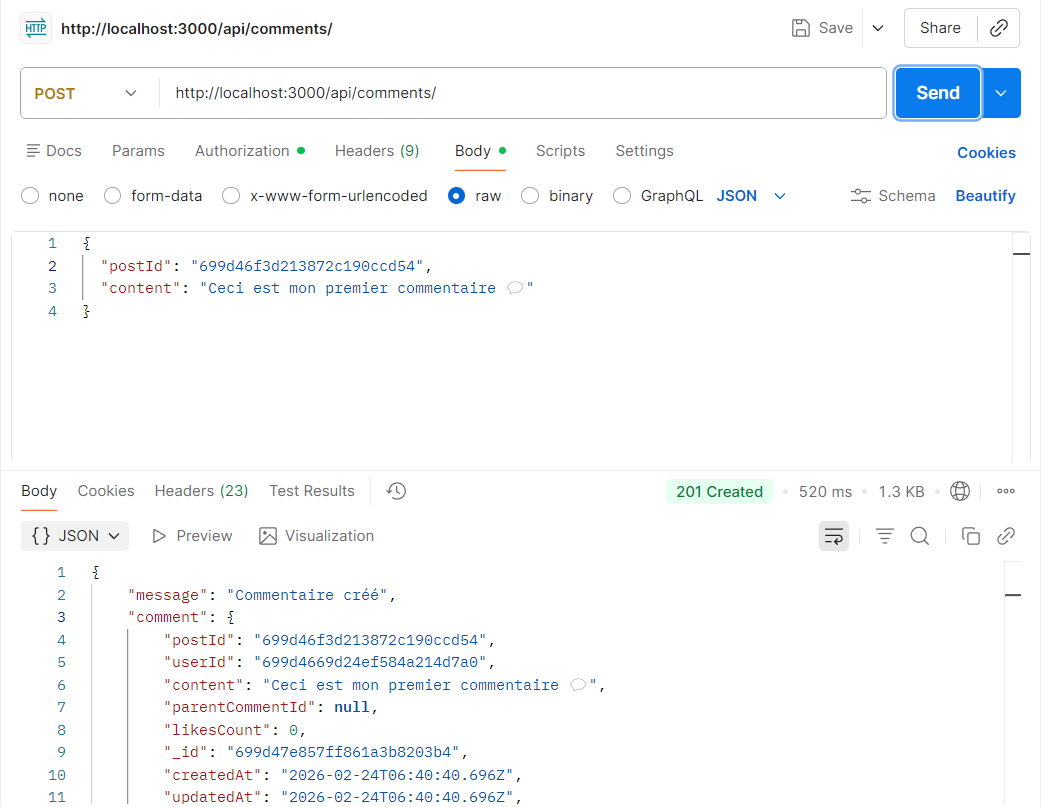
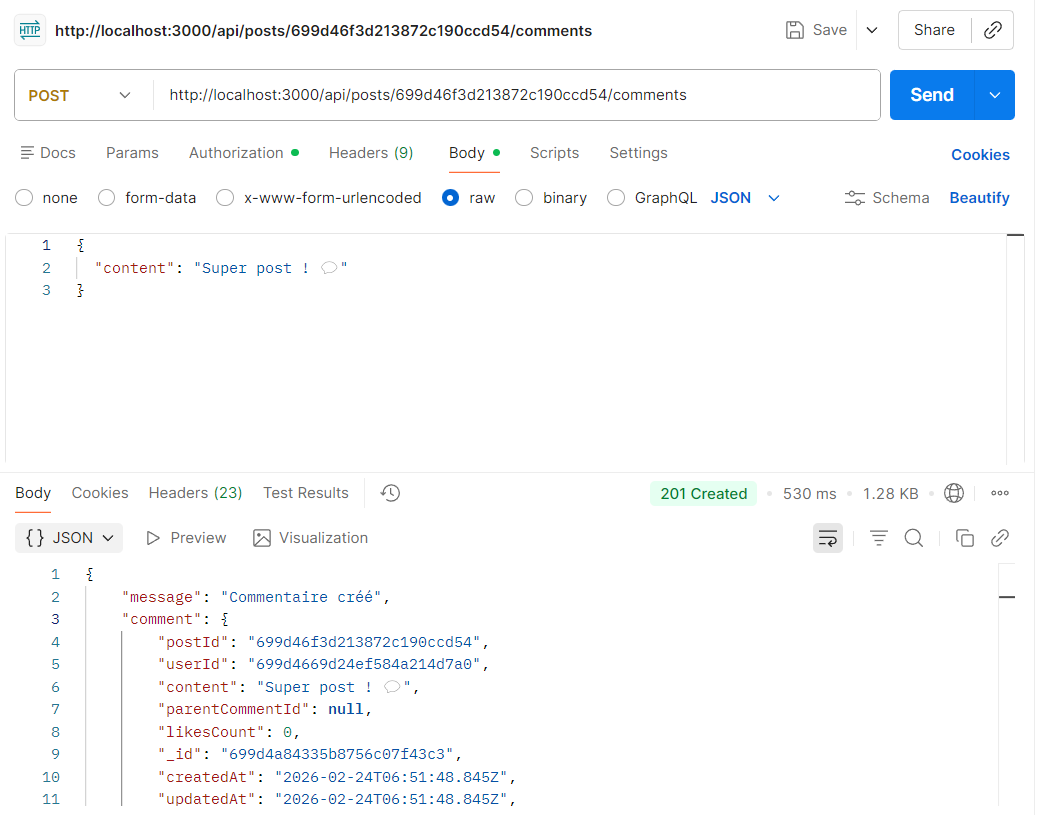
feat: implement comments proxy routing and update comment creation logic

diff --git a/comment-service/routes/comments.js b/comment-service/routes/comments.js
@@ -4,24 +4,25 @@ const Comment = require('../models/Comment');
 const axios = require('axios');
 
 /**
- * ROUTE : POST /api/comments
- * Créer un commentaire
+ * ROUTE : POST /posts/:postId/comments
+ * Créer un commentaire pour un post (RESTful)
  */
-router.post('/', async (req, res) => {
+router.post('/posts/:postId/comments', async (req, res) => {
   try {
-    // Récupérer le userId depuis le header ajouté par le gateway
     const userId = req.headers['x-user-id'];
-    const { postId, content, parentCommentId } = req.body;
+    const postId = req.params.postId;
+    const { content } = req.body;
 
+    // Validation
     if (!userId) {
       return res.status(401).json({
         error: 'Authentification requise'
       });
     }
 
-    if (!postId || !content) {
+    if (!content) {
       return res.status(400).json({
-        error: 'postId et content sont requis'
+        error: 'Le contenu est requis'
       });
     }
 
@@ -29,11 +30,10 @@ router.post('/', async (req, res) => {
     const comment = await Comment.create({
       postId,
       userId,
-      content,
-      parentCommentId: parentCommentId || null
+      content
     });
 
-    // 🔥 Appel au Post Service pour incrémenter le compteur
+    // Appel au Post Service pour incrémenter le compteur
     try {
       await axios.post(
         `http://localhost:${process.env.POST_SERVICE_PORT || 3002}/${postId}/increment-comments`
@@ -46,36 +46,103 @@ router.post('/', async (req, res) => {
       message: 'Commentaire créé',
       comment
     });
-
   } catch (error) {
     console.error('Erreur création commentaire:', error);
     res.status(500).json({ error: error.message });
   }
 });
 
+/**
+ * ROUTE : POST /:postId/comments
+ * Créer un commentaire (via gateway qui a déjà consommé /api/posts)
+ */
+router.post('/:postId/comments', async (req, res) => {
+  try {
+    const userId = req.headers['x-user-id'];
+    const postId = req.params.postId;
+    const { content } = req.body;
+
+    // Validation
+    if (!userId) {
+      return res.status(401).json({
+        error: 'Authentification requise'
+      });
+    }
+
+    if (!content) {
+      return res.status(400).json({
+        error: 'Le contenu est requis'
+      });
+    }
+
+    // Créer le commentaire
+    const comment = await Comment.create({
+      postId,
+      userId,
+      content
+    });
+
+    // Appel au Post Service pour incrémenter le compteur
+    try {
+      await axios.post(
+        `http://localhost:${process.env.POST_SERVICE_PORT || 3002}/${postId}/increment-comments`
+      );
+    } catch (err) {
+      console.warn('Erreur incrémentation compteur:', err.message);
+    }
+
+    res.status(201).json({
+      message: 'Commentaire créé',
+      comment
+    });
+  } catch (error) {
+    console.error('Erreur création commentaire:', error);
+    res.status(500).json({ error: error.message });
+  }
+});
 
 /**
- * ROUTE : GET /api/comments/post/:postId
- * Récupérer les commentaires d'un post
+ * ROUTE : GET /posts/:postId/comments
+ * Récupérer tous les commentaires d'un post (RESTful)
  */
-router.get('/post/:postId', async (req, res) => {
+router.get('/posts/:postId/comments', async (req, res) => {
   try {
-    const comments = await Comment.find({
-      postId: req.params.postId,
-      parentCommentId: null // uniquement commentaires principaux
-    }).sort({ createdAt: -1 });
+    const postId = req.params.postId;
+    const comments = await Comment.find({ postId })
+      .sort({ createdAt: -1 });
 
-    res.json(comments);
-
+    res.json({
+      comments,
+      count: comments.length
+    });
   } catch (error) {
     console.error('Erreur récupération commentaires:', error);
     res.status(500).json({ error: error.message });
   }
 });
 
+/**
+ * ROUTE : GET /:postId/comments
+ * Récupérer tous les commentaires d'un post (via gateway)
+ */
+router.get('/:postId/comments', async (req, res) => {
+  try {
+    const postId = req.params.postId;
+    const comments = await Comment.find({ postId })
+      .sort({ createdAt: -1 });
+
+    res.json({
+      comments,
+      count: comments.length
+    });
+  } catch (error) {
+    console.error('Erreur récupération commentaires:', error);
+    res.status(500).json({ error: error.message });
+  }
+});
 
 /**
- * ROUTE : DELETE /api/comments/:id
+ * ROUTE : DELETE /:id
  * Supprimer un commentaire
  */
 router.delete('/:id', async (req, res) => {

diff --git a/api-gateway/server.js b/api-gateway/server.js
@@ -129,6 +129,27 @@ error: 'User Service indisponible'
 
 }));
 
+// Commentaires via posts (RESTful) - DOIT être AVANT /api/posts
+app.use('/api/posts', (req, res, next) => {
+  // Si le chemin se termine par /comments, rediriger vers le comment service
+  if (req.path.includes('/comments')) {
+    const proxy = createProxyMiddleware({
+      target: `http://localhost:${process.env.COMMENT_SERVICE_PORT || 3004}`,
+      changeOrigin: true,
+      pathRewrite: {
+        '^/api': ''  // Garde /posts dans le chemin
+      },
+      onProxyReq: (proxyReq, req, res) => {
+        if (req.headers['x-user-id']) {
+          proxyReq.setHeader('x-user-id', req.headers['x-user-id']);
+        }
+      }
+    });
+    return proxy(req, res, next);
+  }
+  next();
+});
+
 // Post Service
 app.use('/api/posts', createProxyMiddleware({
 target: `http://localhost:${process.env.POST_SERVICE_PORT || 3002}`,
@@ -147,27 +168,6 @@ console.error('Erreur Post Service:', err);
 res.status(503).json({
 error: 'Post Service indisponible'
 
-});
-}
-}));
-
-// Comment Service
-app.use('/api/comments', createProxyMiddleware({
-target: `http://localhost:${process.env.COMMENT_SERVICE_PORT || 3004}`,
-changeOrigin: true,
-pathRewrite: {
-'^/api/comments': ''
-},
-onProxyReq: (proxyReq, req, res) => {
-// Transmettre le userId au microservice
-if (req.headers['x-user-id']) {
-proxyReq.setHeader('x-user-id', req.headers['x-user-id']);
-}
-},
-onError: (err, req, res) => {
-console.error('Erreur Comment Service:', err);
-res.status(503).json({
-error: 'Comment Service indisponible'
 });
 }
 }));
